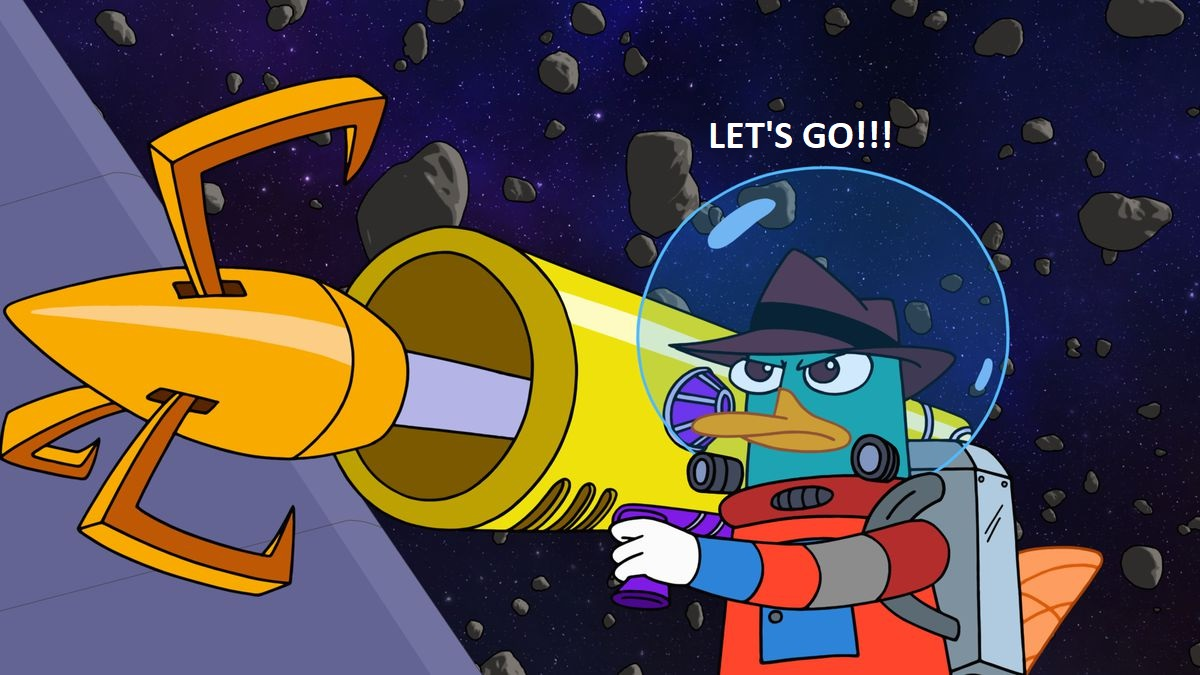
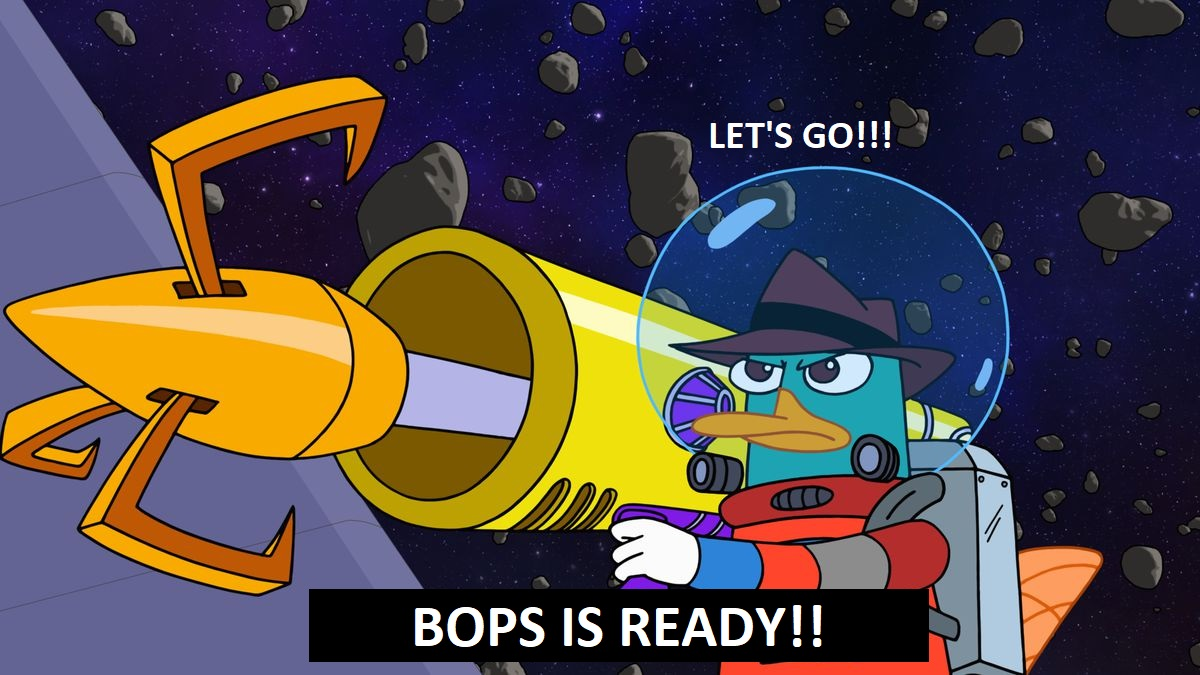
add tests and platypus pic

Changed region(s): [[0.2467, 0.8711, 0.8017, 0.9956]]

diff --git a/bops.py b/bops.py
@@ -3,6 +3,7 @@
 # BOPS: a Matlab toolbox to batch musculoskeletal data processing for OpenSim, Computer Methods in Biomechanics and Biomedical Engineering
 # DOI: 10.1080/10255842.2020.1867978
 
+import unittest
 import msk_modelling_pkg_install
 import os
 import shutil
@@ -37,6 +38,8 @@ import customtkinter as ctk
 import screeninfo as si
 from tqdm import tqdm
 import matplotlib.pyplot as plt
+import tkinter as tk
+from PIL import ImageTk, Image
 
 def select_folder(prompt='Please select your folder', staring_path=''):
     if not staring_path: # if empty
@@ -933,36 +936,71 @@ def progress_bar():
 ########################################################################################################################################
 
 
-if __name__ == '__main__':
-    import tkinter as tk
-    from PIL import ImageTk, Image
-
-    def print_all_good():
-        print('all packages are installed and bops is ready to use!!')
-
-        dir_bops = get_dir_bops()
-        jpeg_path = os.path.join(dir_bops,'src\platypus.jpg')
-        # image = Image.open(jpeg_path)
-        # image.show()
-        show_image(jpeg_path)
+class test_bops(unittest.TestCase):
+       
+    def test_function(self):
+        # Test 1
+        self.assertEqual(my_fun(), 'a')
+        assert len([1, 2, 3]) == 3
     
-    def show_image(image_path):
-        # Create a Tkinter window
-        window = tk.Tk()
-        # Load the image using PIL
-        image = Image.open(image_path)
-        # Create a Tkinter PhotoImage from the PIL image
-        photo = ImageTk.PhotoImage(image)
+    def test_import_c3d_data(self):
         
-        # Create a Tkinter label to display the image
-        label = tk.Label(window, image=photo)
-        label.pack()
-        # Run the Tkinter event loop
-        window.mainloop()
+        print('test_import_c3d_data successfull')
+        
+        with self.assertRaises(ValueError):
+            c3dFilePath = get_testing_file_path('c3d')
+        
+        self.assertEqual(type(c3dFilePath),'str')
+        self.assertTrue(os.path.isfile(c3dFilePath))
+        with self.assertRaises(ValueError):
+            import_c3d_data(c3dFilePath = get_testing_file_path('c3d'))
+        
+        
+        
+    
+    def test_print():       
+        def print_all_good():
+                print('all packages are installed and bops is ready to use!!')
+
+                dir_bops = get_dir_bops()
+                image_path = os.path.join(dir_bops,'src\platypus.jpg')
+                show_image(image_path)
+            
+        def print_sad_platypus():
+
+                dir_bops = get_dir_bops()
+                image_path = os.path.join(dir_bops,'src\platypus_sad.jpg')
+                show_image(image_path)
+
+        def show_image(image_path):
+            # Create a Tkinter window
+            window = tk.Tk()
+            # Load the image using PIL
+            image = Image.open(image_path)
+            # Create a Tkinter PhotoImage from the PIL image
+            photo = ImageTk.PhotoImage(image)
+            
+            # Create a Tkinter label to display the image
+            label = tk.Label(window, image=photo)
+            label.pack()
+            # Run the Tkinter event loop
+            window.mainloop()
 
 
 
-
-    print_all_good()
+# functions to run only when bops is called itself (mainly tests)
+if __name__ == '__main__':
+    unittest.main()
+    
+    
+    def run_tests():
+        test_import_c3d_data()
+    
+    try:
+        run_tests()
+        print_all_good()
+    except:
+        print_sad_platypus()
+        
 
 # end

diff --git a/test.py b/test.py
@@ -1,7 +1,20 @@
-import sys
-import os
-import subprocess
+import unittest
+def my_fun():
+        return 3
 
-pythonDir = os.path.dirname(sys.executable)
-
-print(pythonDir)
+class test_bops(unittest.TestCase):
+       
+    def test_function(self):
+        # Test 1
+        self.assertEqual(my_fun(), 'a')
+        
+        
+        # Test 2
+        assert len([1, 2, 3]) == 3
+        
+        
+            
+        
+if __name__ == '__main__':
+    # Call the test function
+    unittest.main()

diff --git a/bops_test.py b/bops_test.py
@@ -10,8 +10,11 @@ def test_import_c3d_data():
     print(os.path.isfile(c3dFilePath))
     c3d_dict =  import_c3d_data(c3dFilePath = get_testing_file_path('c3d'))
     print(c3d_dict)
-    
+
+    pass
+
     return c3d_dict
+    
 
 def test_plot_EMG_data():
     c3dFilePath = get_testing_file_path('c3d')
